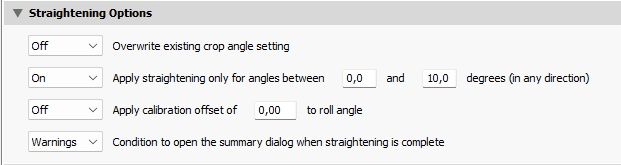
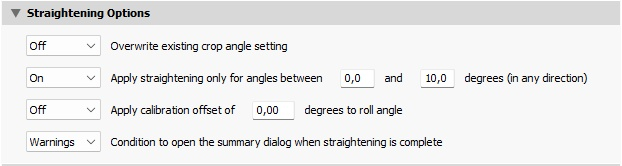
Update docs

diff --git a/docs/Focus Points.md b/docs/Focus Points.md
@@ -13,8 +13,10 @@ Focus Points – User Manual
 *  [Focus Point Viewer](#22-focus-point-viewer)<br>
    - [User Interface](#user-interface), [User Messages](#user-messages), [Plugin Status](#plugin-status), [Keyboard Shortcuts](#keyboard-shortcuts) 
 *  [Metadata Viewer](#23-metadata-viewer)
-*  [Configuration and Settings](#24-configuration-and-settings)
-   - [Screen Scaling](#screen-scaling), [User Interface](#user-interface-settings), [Viewing Options](#viewing-options), [Logging](#logging), [Update Check](#update-check)
+*  [Straighten Images](#24-straighten-images)
+   - [Operation](#operation), [Customization](#Customization), [Keyboard Shortcut](#keyboard-shortcut), [General Remarks](#general-remarks) 
+*  [Configuration and Settings](#25-configuration-and-settings)
+   - [Screen Scaling](#screen-scaling), [User Interface](#user-interface-settings), [Viewing Options](#viewing-options), [Logging](#logging), [Straightening Options](#straightening-options), [Update Check](#update-check)
 
 ### [Display of Focus Points](#3-display-of-focus-points)
 
@@ -438,7 +440,7 @@ The photo has a roll angle of 2.5°. Applying a crop angle of -2.5° compensates
 <img src="../screens/Straighten%201.jpg" alt="User Interface" style="width: 1000px;"/>
 
 
-### Basic Operation
+### Operation
 
 To use the Straighten Images plugin, select the photos you want to straighten and open Plug-in Extras > Straighten Images.
 
@@ -468,7 +470,7 @@ Various options allow you to customize and fine-tune the process of straightenin
 For a detailed explanation of these settings, see [Straightening Options](#straightening-options)
 
 
-### Keyboard Shortcuts
+### Keyboard Shortcut
 
 The FocusPointsHotkey script files and precompiled executables have been extented by a third keyboard shortcut `Ctrl NumpadSub`.
 
@@ -547,7 +549,7 @@ If you don't need the controls for flagging, rating or coloring photos in the Fo
 The keyboard shortcuts for flagging, rating and coloring are the same as those used in Lightroom, including the `Shift` combinations that perform an action and advance to the next photo. Since the plugin cannot recognize key codes and can only work with text input, using the `Shift` + `0`-`9` keyboard shortcuts requires the plugin to be aware of the currently used international keyboard layout.<br>
 The predefined options cover a large percentage of the available layouts, and more can be added on request. In this specific context, it is important to note that the term 'layout' refers only to the codes produced by the `0`–`9` keys in the top row, and not to the entire keyboard.
 <br><br>
-<img src="../screens/README KeyboardLayoutSettings.jpg" alt="Screenshot" style="width: 600px;"/>
+<img src="../screens/README KeyboardLayoutSettings.jpg" alt="Screenshot"/>
 <br>
 
 ### Viewing Options
@@ -580,7 +582,33 @@ The logging mechanism provides a fine-grained hierarchy of levels at which infor
    | Auto    | Same as 'Info'. Recommended setting. No noticeable slow down of plugin. |
 
 
-<u>Hint</u>: `Auto`logging will start on an empty log file for each image. When you open such a log file, it will immediately focus on the most recent image. The log file will be emptied when the plugin starts for all other logging levels. 
+<u>Hint</u>: `Auto`logging will start on an empty log file for each image. When you open such a log file, it will immediately focus on the most recent image. The log file will be emptied when the plugin starts for all other logging levels.
+
+
+### Straightening Options
+
+These settings control the process of [straightening images](#24-Straighten-images):
+
+<img src="../screens/Settings%20-%20Straightening%20Options.jpg" alt="User Interface"/>
+
+**_Overwrite existing crop angle setting_**. Default setting: `Off`<br>
+Roll angle compensation will be applied regardless of whether the photo has already been rotated. The straightening angle will replace the existing crop angle, rather than being added to it.
+
+**_Apply straightening only for angles between x and y_**. Default setting: `Off`<br>
+Roll angle compensation will only be applied for angles within the range of x to y degrees.  
+You can use this option to define a deadband to prevent small, often invisible, corrections from triggering Lightroom cropping. You can also set an upper limit for straightening angles. For example, if a photo has been taken with the camera tilted 25° horizontally, this is likely to be a deliberate creative choice rather than an unintended tilt. The lower and upper limits apply to both camera directions. (In Lightroom's Crop & Straighten tool, positive values rotate the image clockwise and negative values rotate it counterclockwise).
+  
+Example:  
+Applying straightening only for angles between 0.2° and 10° means that no straightening (and cropping) will occur for angles between -0.2° and 0.2°, or for angles outside the range of -10° to 10°.  
+
+**_Apply calibration offset_**. Default setting: `Off`<br>
+If you are straightening photos captured using an improperly calibrated level gauge, you can specify a calibration offset in degrees here. This offset will be added to the roll angle compensation to compensate for the incorrect calibration of the level gauge. 
+
+**_Condition to open the summary dialog when straightening is complete_**. Default setting: `Skipped Images`<br>
+Specify the least critical condition that will trigger the summary window to open at the end of the straightening process. The dropdown list shows the available conditions in ascending order of criticality.
+
+Example:  
+The default setting, 'Skipped Images', will trigger the summary to show for skipped images, as well as warnings and errors that occurred during the process. Selecting the 'Errors' setting will only show the summary for errors that occurred, but not for warnings or skipped images.
 
 
 ### Update Check
